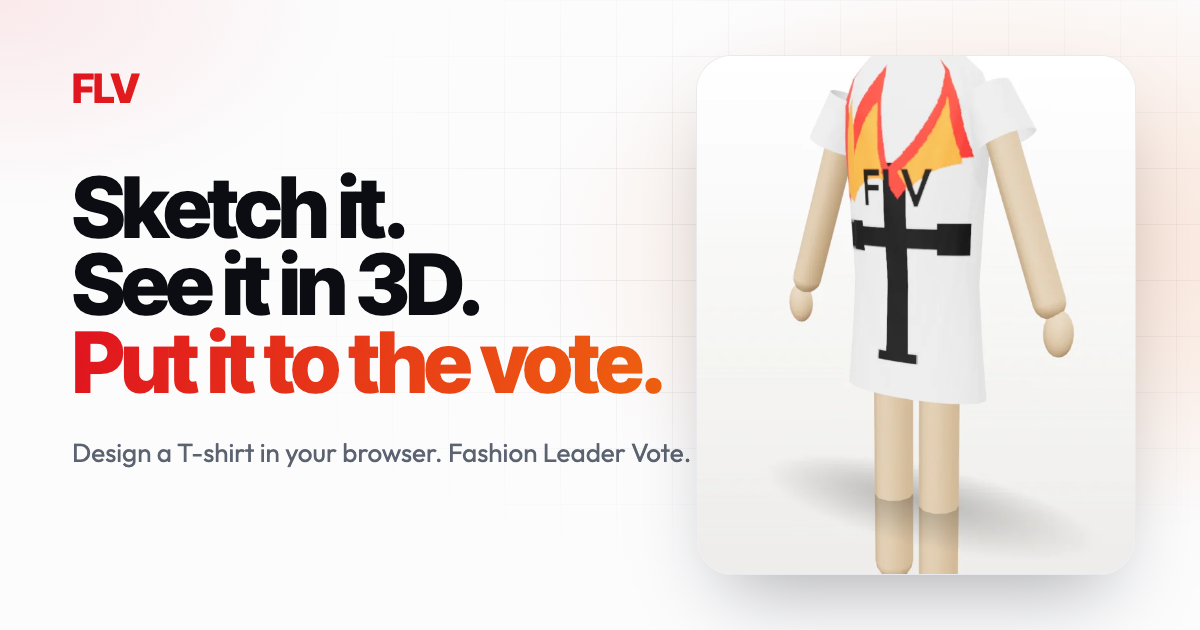
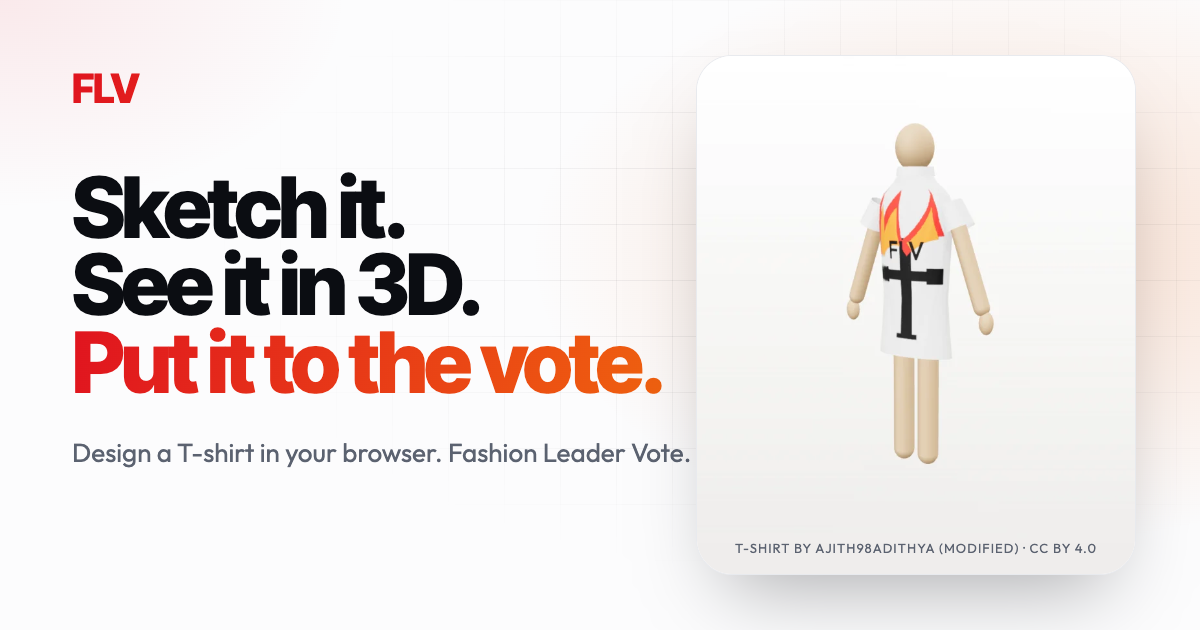
Landing hero: show the whole figure and keep the CC BY credit clear
- The hero scene uses the full-figure framing made for the mannequin, so
  the head is no longer cut off, and the default view now matches the
  Front/Back/Left/Right views, which already sat at that distance.
- On desktop the tee's CC BY credit sits above the stage instead of
  under it, where the tool dock covered its start.
- Re-baked the hero poster and social card with the real tee from
  master. The social card now names the model too.

Changed region(s): [[0.6167, 0.0905, 0.8942, 0.9349]]

diff --git a/src/components/landing/LandingSections.tsx b/src/components/landing/LandingSections.tsx
@@ -133,8 +133,11 @@ export function LandingHeroSection({
               <HeroPoster />
             </div>
           )}
-          {/* A credited model (CC BY) is named under it; today's tee is project-made. */}
-          <div className="mt-3 flex justify-center lg:absolute lg:-bottom-8 lg:right-0">
+          {/*
+            A credited model (CC BY) is named with it: under it on phones, above
+            it on desktop, where the tool dock overlaps the stage's lower edge.
+          */}
+          <div className="mt-3 flex justify-center lg:absolute lg:-top-8 lg:right-0 lg:mt-0">
             <GownCredit garmentId="tee" />
           </div>
           <div className="relative z-10 w-full max-w-md lg:absolute lg:-bottom-14 lg:-left-14 lg:w-[19rem] xl:-left-20">

diff --git a/src/components/landing/LandingCloth.tsx b/src/components/landing/LandingCloth.tsx
@@ -68,7 +68,7 @@ export default function LandingCloth({
       data-engine="landing"
       className={coarsePointer ? 'pointer-events-none size-full' : 'size-full'}
     >
-      <StudioStage envMode="studio" framing="garment">
+      <StudioStage envMode="studio" framing="figure">
         <Suspense fallback={<FashionLoader />}>
           <AvatarBody>
             <Garment garmentId="tee" overrides={overrides} document={documentProp} picking={false} />

diff --git a/docs/asset-rights.md b/docs/asset-rights.md
@@ -36,8 +36,8 @@ Credits appear wherever a Style3D form is shown, all from `garments.ts`: the stu
 | `images/meadow.jpg` | 1920×1280 photograph; EXIF reads Nikon D7200 | Added in `4436995` from the archived campus app. **No code references it.** | **Removed on 4 Nov.** Unknown photographer and unused. Confirm ownership or delete. |
 | `stills/look-house-ink.png` | Rendered from the app by `scripts/bake-stills.mjs` (Puppeteer screenshots of the seed looks); tee | Script and `data/designs.json` | **Seed content needs confirmation** (see the seed looks section) |
 | `stills/look-midnight-silk.png`, `look-atelier-ivory.png`, `look-oxblood-evening.png`, `look-meadow-walk.png`, `look-slate-denim.png`, `look-wool-hour.png`, `look-blush-first.png` (gown form), `look-cotton-leather.png` (mixed form) | Same baker; these render Style3D forms | Same as above | **Cleared, credit required** (derivatives of CC BY models). **Seed content needs confirmation.** |
-| `og-default.png` | Project-made social card: the landing headline and the baked hero tee, in the bundled fonts | `bake-og.mjs` (12 Nov) | **Cleared** |
-| `landing/hero-tee-*.webp` | Project-made render of the procedural tee on the house mannequin, with the Cross Flame demo marks from `public/graphics/` (R3) | `bake-landing-poster.mjs` (12 Nov) | **Cleared** (render); marks follow R3 |
+| `og-default.png` | Social card: the landing headline and the baked hero tee, in the bundled fonts. The tee is the CC BY tee ("T-shirt by ajith98adithya (modified)"), credited on the card itself | `bake-og.mjs` (12 Nov, re-baked with the CC BY tee) | **Cleared, credit required** (credit is on the card) |
+| `landing/hero-tee-*.webp` | Render of the CC BY tee on the house mannequin, full figure, with the Cross Flame demo marks from `public/graphics/` (R3) | `bake-landing-poster.mjs` (12 Nov, re-baked with the CC BY tee) | **Cleared, credit required** (render; credited beside the hero); marks follow R3 |
 | `favicon.svg` | Project-made vector | `9745253` | **Cleared** |
 
 ## Print graphics (`public/graphics/`, `src/lib/graphics-library.ts`)
